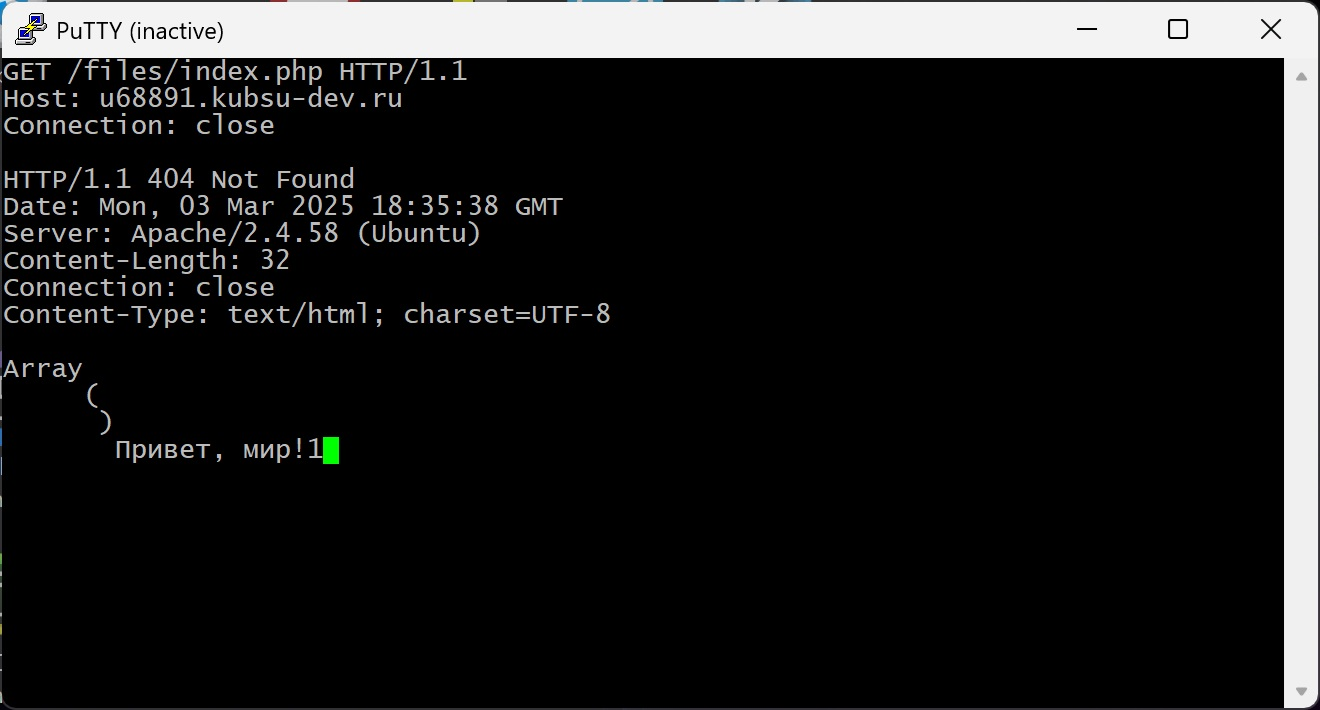
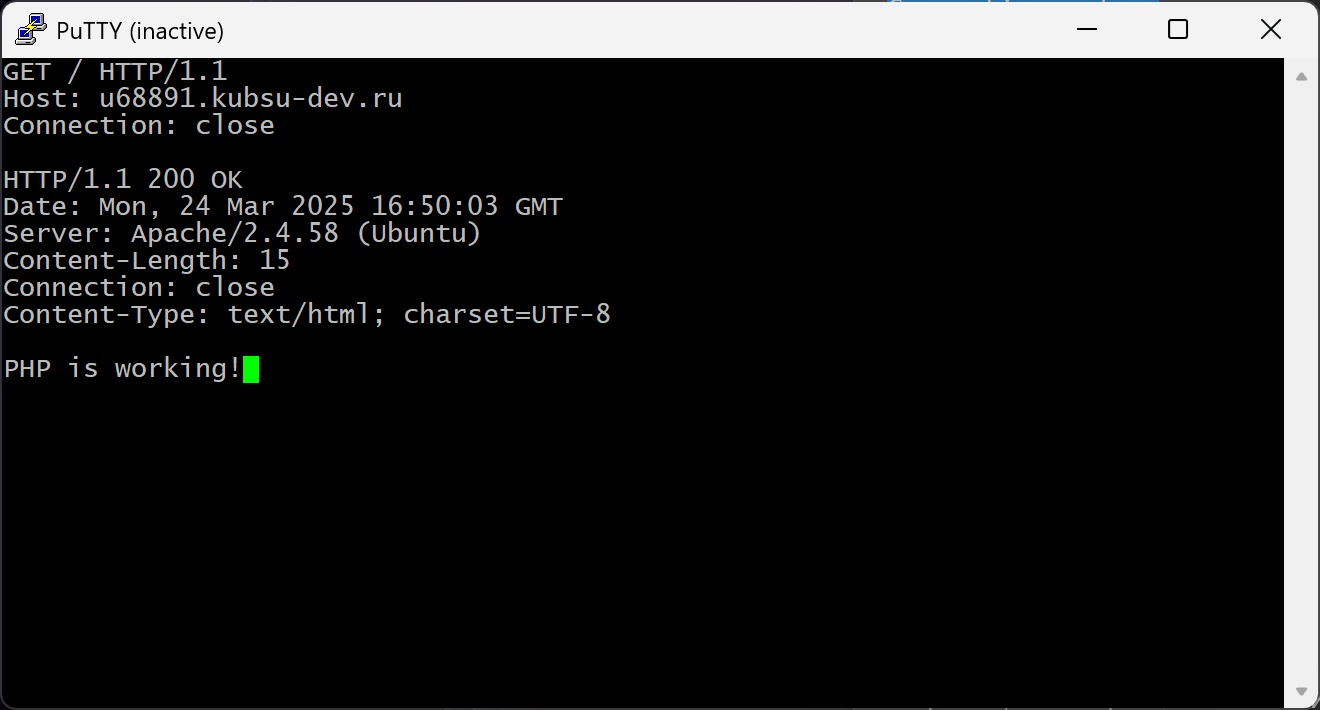
Add files via upload

diff --git a/index.html b/index.html
@@ -20,47 +20,75 @@
 </style>
 
 <body>
-    <h2>1. Получить главную страницу методом GET в протоколе HTTP 1.0</h2>
-    <img src="img/1.jpg">
     <p>
-        Сервер возвращает содержимое главной страницы
+        Залила файлы в каталоге files на веб-сервер через GitHub и команды git clone в PuTTY. Проверила 
+        работоспособность index.php
+    </p>
+    <img src="img/check.jpg">
+    <p>
+        Подключилась к серверу с помощью PuTTY, используя протокол telnet (это сетевой протокол, работающий по TCP-соединению, 
+        предназначенный для ручного управления удаленными машинами с помощью команд консольного терминала), 80 порт (стандартный канал для связи 
+        по протоколу HTTP для обмена данными между веб-серверами и клиентами) и тип соединения Raw (режим соединения 
+        в PuTTY, который позволяет подключаться к любым текстовым протоколам, работающим по системе «запрос — ответ»).
+    </p>
+    <img src="img/putty.jpg">
+    <p>
+        Запросы записала в текстовый файл, и далее через буфер обмена мышью копировала их из файла. 
+    </p>
+    <img src="img/requests.jpg">
+    <h2>1. Получить главную страницу методом GET в протоколе HTTP 1.0</h2>
+    <img src="img/1.1.jpg">
+    <img src="img/1.2.jpg">
+    <p>
+        Сервер возвращает содержимое с заголовком Apache2 Ubuntu Default Page: It works. Это страница по умолчанию, 
+        используемая для тестирования правильной работы сервера Apache2 после установки в системах Ubuntu<br><br>
+
+        <i>Date</i> - дата обработки запроса <br>
+        <i>Server</i> - версия сервера, который обрабатывает запрос<br>
+        <i>Last-Modified</i> - дата последнего изменения страницы<br>
+        <i>ETag</i> - закрытый идентификатор, присвоенный веб-сервером определённой версии ресурса<br>
+        <i>Accept-Ranges: bytes</i> - указывает, что можно запрашивать данные с сервера фрагментами, указывая смещение в байтах<br>
+        <i>Content-Length</i> - длина содержимого в байтах<br>
+        <i>Vary: Accept-Encoding</i> - указывает, что сервер может отдавать разные версии контента (сжатые или несжатые) 
+        в зависимости от заголовка Accept-Encoding в запросе клиента<br>
+        <i>Connection: close</i> - соединение будет закрыто после передачи ответа<br>
+        <i>Content-Type</i> - указывает на тип содержимого
     </p>
 
     <h2>2. Получить внутреннюю страницу методом GET в протоколе HTTP 1.1</h2>
     <img src="img/2.jpg">
     <p>
-        Сервер возвращает содержимое внутренней страницы
+        Сервер возвращает содержимое внутренней страницы<br>
+        В HTTP 1.1 соединение остается открытым по умолчанию (если не указано Connection: close).
     </p>
 
     <h2>3. Определить размер файла file.tar.gz, не скачивая его</h2>
     <img src="img/3.jpg">
     <p>
-        Content-Length указывает размер файла в байтах: 11335
+        <i>Content-Length</i> указывает размер файла в байтах: 11335<br>
+        Метод HEAD позволяет получить метаданные без загрузки содержимого файла. 
     </p>
 
     <h2>4. Определить медиатип ресурса /image.png</h2>
     <img src="img/4.jpg">
     <p>
-        В строке Content-Type указан медиатип: image/png
+        В строке <i>Content-Type</i> указан медиатип: image/png
     </p>
 
     <h2>5. Отправить комментарий на сервер по адресу /index.php</h2>
     <img src="img/5.jpg">
     <p>
-        application/x-www-form-urlencoded - это формат кодирования данных при отправке форм в теле HTTP-запроса.
-        В этом формате данные форматируются в виде пар «ключ-значение», разделённых символом «&». 
-        Специальные символы в именах и значениях полей заменяются на их цифровой код в UTF-8 со знаком «%». 
-        Пробелы могут кодироваться как символы «+».
-        Когда сервер получает такие данные, он может декодировать их, чтобы получить исходные значения формы. 
-    </p>
-    <p>
-        Content-Length: 15 указывает длину передаваемых данных
+        Метод POST используется для отправки данных в теле запроса на сервер.<br><br> 
+        <i>application/x-www-form-urlencoded</i> - это формат кодирования данных при отправке форм в теле HTTP-запроса.<br>
+        <i>Content-Length: 21</i> указывает длину передаваемых данных<br><br>
+        В Array передался комментарий
     </p>
 
     <h2>6. Получить первые 100 байт файла /file.tar.gz</h2>
     <img src="img/6.jpg">
     <p>
-        Для этого используем Range: bytes=0-99
+        Для этого используем <i>Range: bytes=0-99</i><br>
+        Сервер возвращает часть загруженного файла.
     </p>
 
     <h2>7. Определить кодировку ресурса /index.php</h2>
